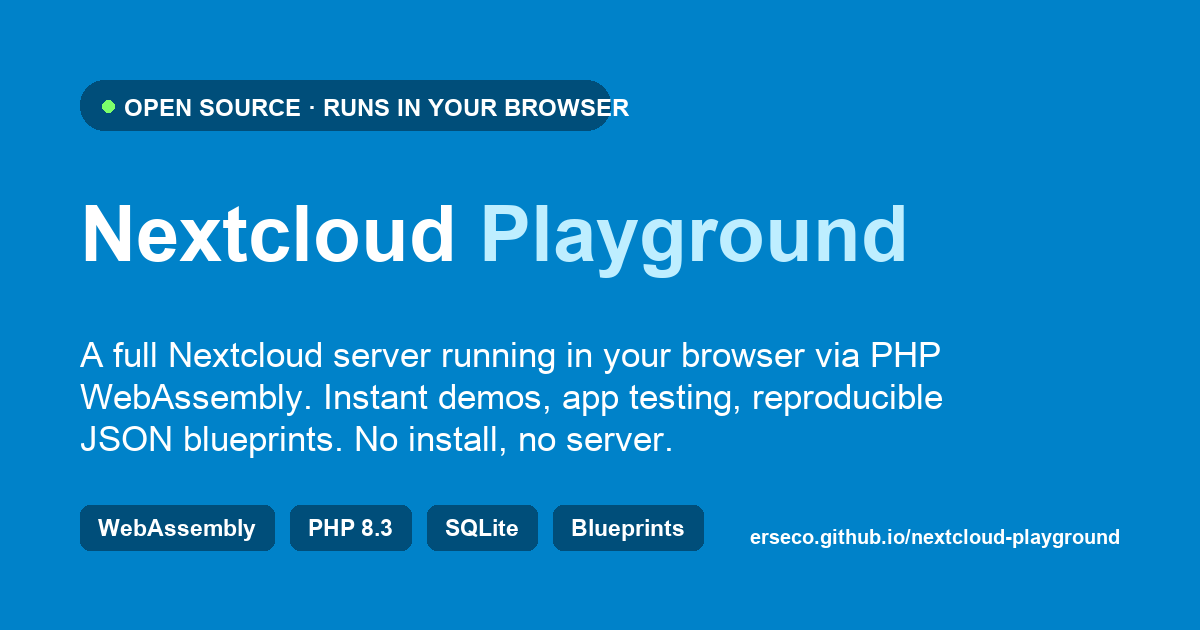
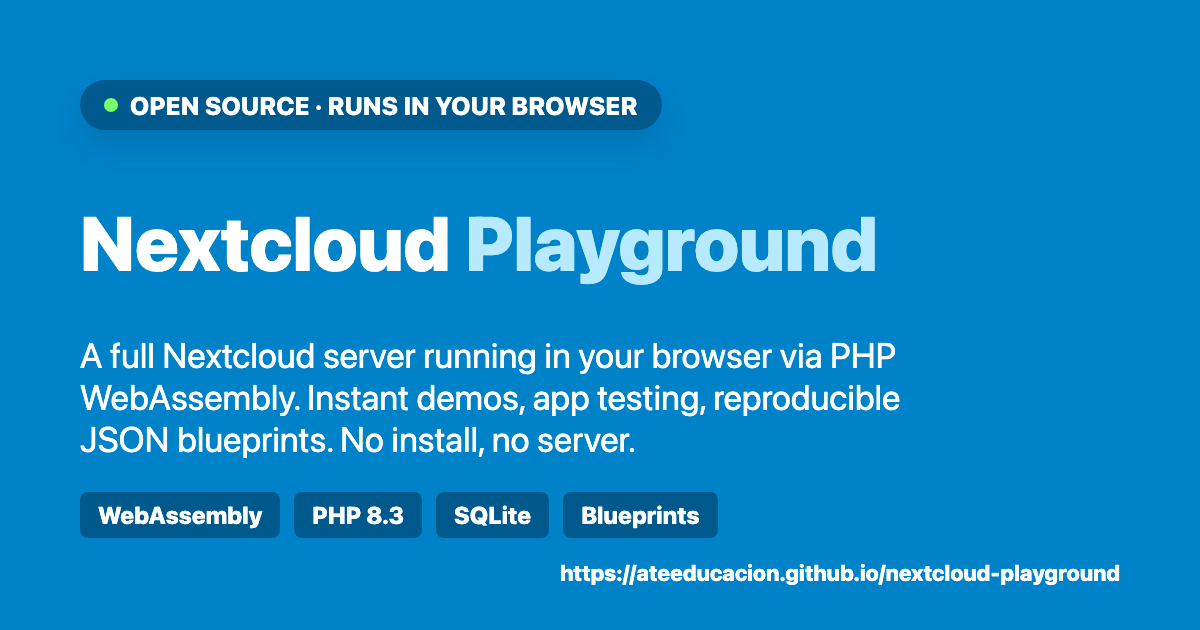
Fix CI: sync vendor before worker build, repair mkdocs strict link, add Try-it badge

diff --git a/index.html b/index.html
@@ -18,11 +18,11 @@
     <meta property="og:url" content="https://ateeducacion.github.io/nextcloud-playground/">
     <meta
       property="og:image"
-      content="https://ateeducacion.github.io/nextcloud-playground/ogimage.png"
+      content="https://ateeducacion.github.io/nextcloud-playground/og-image.png"
     >
     <meta property="og:image:type" content="image/png">
     <meta property="og:image:width" content="1200">
-    <meta property="og:image:height" content="600">
+    <meta property="og:image:height" content="630">
     <meta name="twitter:card" content="summary_large_image">
     <meta name="twitter:title" content="Nextcloud Playground">
     <meta
@@ -31,7 +31,7 @@
     >
     <meta
       name="twitter:image"
-      content="https://ateeducacion.github.io/nextcloud-playground/ogimage.png"
+      content="https://ateeducacion.github.io/nextcloud-playground/og-image.png"
     >
     <meta name="twitter:image:alt" content="Nextcloud Playground">
     <link rel="icon" type="image/x-icon" href="./favicon.ico">

diff --git a/README.md b/README.md
@@ -2,6 +2,14 @@
 
 > Run a full Nextcloud server in the browser — no server required.
 
+<p align="center">
+  <a href="https://ateeducacion.github.io/nextcloud-playground/">
+    <img src="https://img.shields.io/badge/Try%20it-in%20your%20browser-0082c9?logo=nextcloud&logoColor=white&style=for-the-badge" alt="Try Nextcloud Playground in your browser">
+  </a>
+</p>
+
+[**Live demo**](https://ateeducacion.github.io/nextcloud-playground/) · [Documentation](docs/) · [Blueprints](docs/blueprint-json.md)
+
 Nextcloud Playground runs [Nextcloud](https://nextcloud.com) entirely in the
 browser using WebAssembly, powered by [WordPress Playground](https://github.com/WordPress/wordpress-playground)'s
 `@php-wasm` runtime. Every page load boots a fresh Nextcloud instance backed by
@@ -13,6 +21,13 @@ It is a sibling of the Moodle, Omeka S, and FacturaScripts playgrounds, and the
 [`docs/feasibility-spike.md`](docs/feasibility-spike.md) for how that was proven.
 
 ## Getting started
+
+### Try it online
+
+Open the live playground — no install needed:
+**<https://ateeducacion.github.io/nextcloud-playground/>**
+
+It boots a fresh Nextcloud and signs you in automatically as `admin`.
 
 ### Run it locally
 

diff --git a/docs/feasibility-spike.md b/docs/feasibility-spike.md
@@ -10,7 +10,7 @@ serves its login page under php-wasm (PHP 8.3) with a posix polyfill and a small
 set of source patches. The remaining hard problem is **bundle size / browser
 memory**, addressed in Phase 2.
 
-The spike harness lives in [`spike/`](../spike/) (`run-spike.mjs` + `prepend.php`).
+The spike harness lives in [`spike/`](https://github.com/ateeducacion/nextcloud-playground/tree/main/spike) (`run-spike.mjs` + `prepend.php`).
 It runs headlessly with `@php-wasm/node`, mounting the extracted Nextcloud source
 over NODEFS, running `occ maintenance:install`, then requesting `status.php` and
 `/index.php/login`.
@@ -41,7 +41,7 @@ total: ~4.5s (NODEFS, warm)
 ### 1. posix polyfill (`auto_prepend_file`)
 The build is `--disable-posix`; Nextcloud calls `posix_getuid()` / `posix_getpwuid()`
 without guards. We stub the posix surface (fake `www-data`, uid 33) via an
-`auto_prepend_file`. See [`spike/prepend.php`](../spike/prepend.php). This is the
+`auto_prepend_file`. See [`spike/prepend.php`](https://github.com/ateeducacion/nextcloud-playground/blob/main/spike/prepend.php). This is the
 single most important file and becomes `src/runtime/php-prepend.js` in the real build.
 
 ### 2. Source patches (applied at build time, gated on `PHP_SAPI === 'wasm'`)